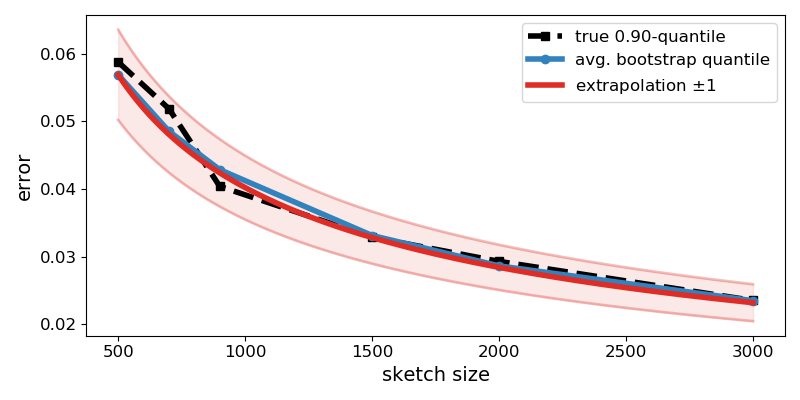
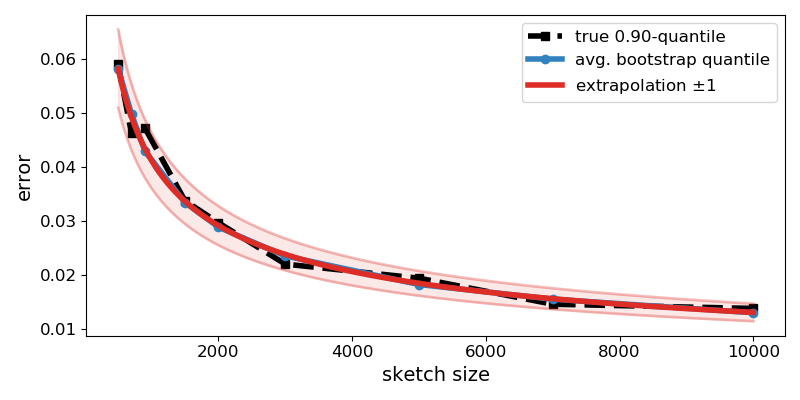
update

diff --git a/simulation.py b/simulation.py
@@ -106,11 +106,11 @@ if __name__ == "__main__":
     #
     parser.add_argument('--name', type=str, default='simulation')
     #
-    parser.add_argument('--samples', type=int, nargs='+', default=[500, 700, 900, 1500, 2000, 3000])
+    parser.add_argument('--samples', type=int, nargs='+', default=[500, 700, 900, 1500, 2000, 3000, 5000, 7000, 10000])
     #
-    parser.add_argument('--runs', type=int, default=120)
+    parser.add_argument('--runs', type=int, default=160)
     #
-    parser.add_argument('--boots', type=int, default=30)
+    parser.add_argument('--boots', type=int, default=40)
     #
     parser.add_argument('--alpha', type=float, default=0.1)
     #

diff --git a/README.md b/README.md
@@ -5,9 +5,9 @@ This allows the user to inspect the quality of a rough initial sketched Singular
 To demonstrate the idea, we generate a synthetic matrix which is characterized by a low effective rank.
 ```
 from sketchedSVD import *
-from genTestMatrix import *         
+from genTestMatrix import *
 
-X = matrixPolyDecay(m=100000, n=3000, beta=1)    
+X = matrixPolyDecay(m=100000, n=3000, beta=1)
 ``` 
 Here, `X` is a tall and skinny matrix which features a polynomially decaying spectrum. (Generating the data will take a little while...)
 
@@ -32,16 +32,16 @@ Next, we use the results to extrapolate (forecast) the error as a function of th
 svd.error_estimation_plot(alpha=0.1, interval=[500,10000])
 ```
 You will generate the following plot which tells you that you can roughly reduce the error by a factor of 2 if you sample 4% to 6% of the rows. 
-Further, we see that increasing the sketch even further has a diminishing return in terms of the approximation accuracy.  
+Further, we see that increasing the sketch even further has a diminishing return in terms of the approximation accuracy.
 
-<img src="https://github.com/erichson/bootstrappedSVD/blob/master/plots/eestimate.png" width="800">
+<img src="https://github.com/erichson/bootstrappedSVD/blob/master/plots/eestimate.png" width="650">
 
 
 You don't believe that these error estimates are accurate? Well, you can verify that the extrapolated errors are actually pretty accurate by running the following simulation
 ```
 exec(open('simulation.py').read())
 ```
-<img src="https://github.com/erichson/bootstrappedSVD/blob/master/plots/simulation.png" width="800">
+<img src="https://github.com/erichson/bootstrappedSVD/blob/master/plots/simulation.png" width="650">
 
 Our paper provides many more details, experimental results and theoretical guarantees for the proposed bootstrap method.
 
